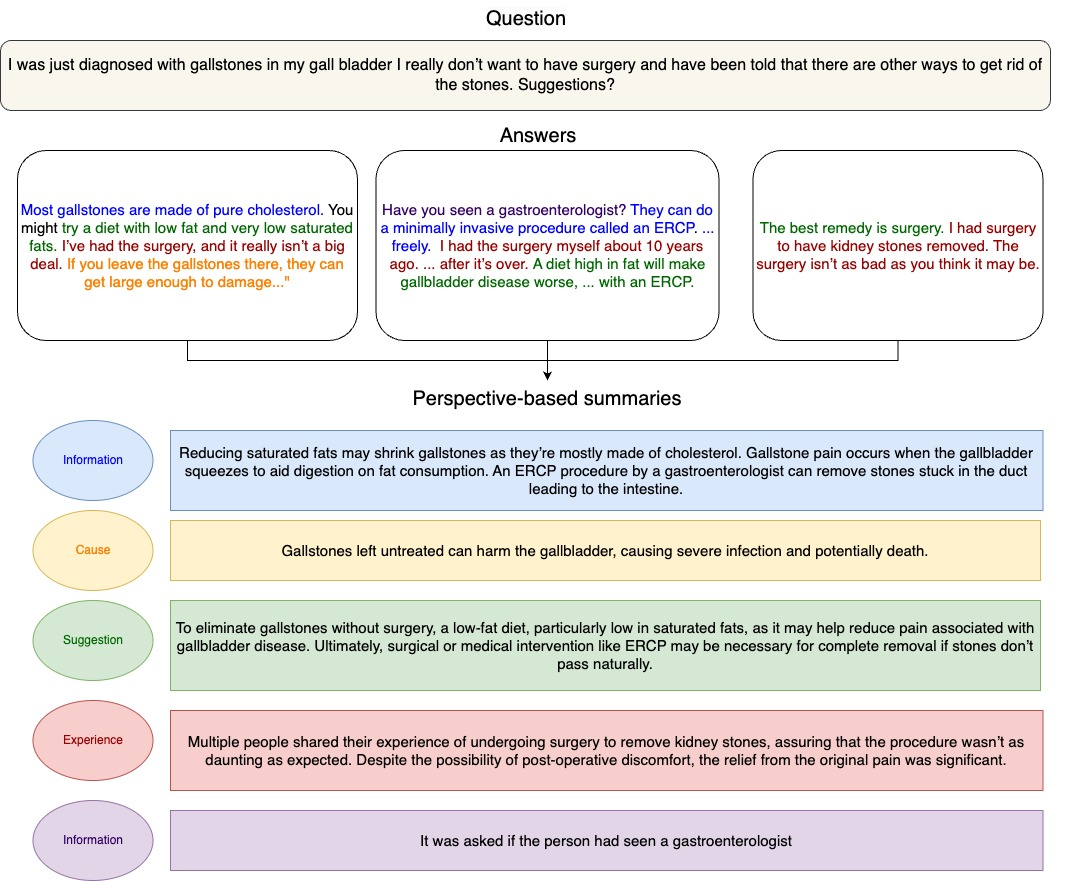
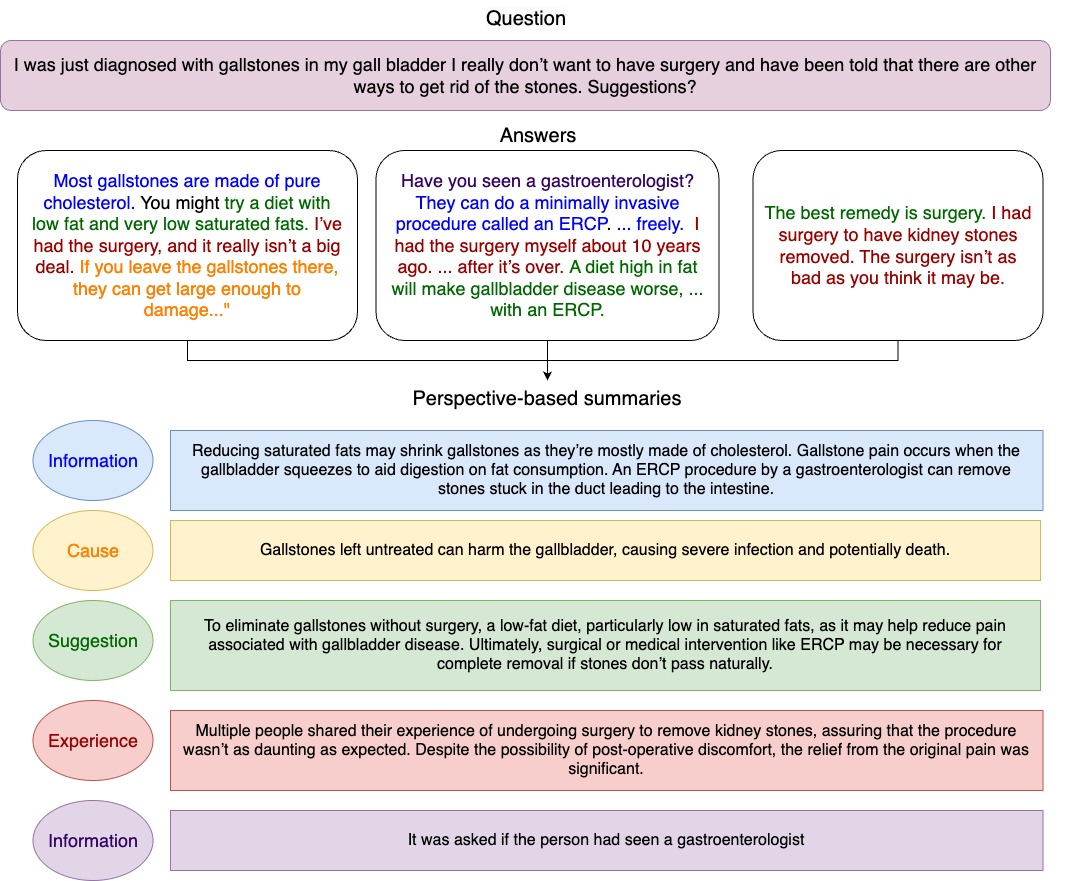
edit image

diff --git a/public/docs/index.html b/public/docs/index.html
@@ -10,9 +10,9 @@ text-gray-500 hover:bg-gray-100 hover:text-gray-900 dark:text-gray-300 dark:hove
 text-gray-500 hover:bg-gray-100 hover:text-gray-900 dark:text-gray-300 dark:hover:bg-primary-800 dark:hover:text-gray-50" href=https://www.codabench.org/competitions/4312/ target=_blank rel=noreferer>CodaBench ↗</a></li></ul><ul class="flex flex-col gap-1 max-lg:hidden"><li class="[word-break:break-word] mt-5 mb-2 px-2 py-1.5 text-sm font-semibold text-gray-900 first:mt-0 dark:text-gray-100 cursor-default"><span>Still need help?</span></li><li><a class="hb-sidebar-custom-link
 text-gray-500 hover:bg-gray-100 hover:text-gray-900 dark:text-gray-300 dark:hover:bg-primary-800 dark:hover:text-gray-50" href=/contact/>Contact</a></li><li><a class="hb-sidebar-custom-link
 text-gray-500 hover:bg-gray-100 hover:text-gray-900 dark:text-gray-300 dark:hover:bg-primary-800 dark:hover:text-gray-50" href=https://www.codabench.org/competitions/4312/ target=_blank rel=noreferer>CodaBench ↗</a></li></ul></div></aside><nav class="hb-toc order-last hidden w-64 shrink-0 xl:block print:hidden px-4" aria-label="table of contents"><div class="hb-scrollbar text-sm [hyphens:auto] sticky top-16 overflow-y-auto pr-4 pt-6 max-h-[calc(100vh-var(--navbar-height)-env(safe-area-inset-bottom))] -mr-4 rtl:-ml-4"><p class="mb-4 font-semibold tracking-tight">On this page</p><ul><li class="my-2 scroll-my-6 scroll-py-6"><a class="font-semibold inline-block text-gray-500 hover:text-gray-900 dark:text-gray-400 dark:hover:text-gray-300 w-full break-words" href=#introduction>Introduction</a></li><li class="my-2 scroll-my-6 scroll-py-6"><a class="font-semibold inline-block text-gray-500 hover:text-gray-900 dark:text-gray-400 dark:hover:text-gray-300 w-full break-words" href=#task-description>Task Description</a></li><li class="my-2 scroll-my-6 scroll-py-6"><a class="font-semibold inline-block text-gray-500 hover:text-gray-900 dark:text-gray-400 dark:hover:text-gray-300 w-full break-words" href=#dataset>Dataset</a></li><li class="my-2 scroll-my-6 scroll-py-6"><a class="font-semibold inline-block text-gray-500 hover:text-gray-900 dark:text-gray-400 dark:hover:text-gray-300 w-full break-words" href=#participation>Participation</a></li><li class="my-2 scroll-my-6 scroll-py-6"><a class="font-semibold inline-block text-gray-500 hover:text-gray-900 dark:text-gray-400 dark:hover:text-gray-300 w-full break-words" href=#evaluation-metrics>Evaluation Metrics</a></li><li class="my-2 scroll-my-6 scroll-py-6"><a class="font-semibold inline-block text-gray-500 hover:text-gray-900 dark:text-gray-400 dark:hover:text-gray-300 w-full break-words" href=#timeline>Timeline</a></li><li class="my-2 scroll-my-6 scroll-py-6"><a class="font-semibold inline-block text-gray-500 hover:text-gray-900 dark:text-gray-400 dark:hover:text-gray-300 w-full break-words" href=#organisers>Organisers</a></li><li class="my-2 scroll-my-6 scroll-py-6"><a class="font-semibold inline-block text-gray-500 hover:text-gray-900 dark:text-gray-400 dark:hover:text-gray-300 w-full break-words" href=#references>References</a></li></ul></div></nav><article class="flex w-full min-w-0 min-h-[calc(100vh-var(--navbar-height))] justify-center break-words pb-8 pr-[calc(env(safe-area-inset-right)-1.5rem)]"><main class="prose prose-slate lg:prose-xl dark:prose-invert w-full min-w-0 max-w-6xl px-6 pt-4 md:px-12"><div class=mb-1><div class="mt-1.5 flex items-center gap-1 overflow-hidden text-sm text-gray-500 dark:text-gray-400"><div class="whitespace-nowrap font-medium text-gray-700 dark:text-gray-100">Task</div></div></div><div class="content text-base"><h1>PerAnsSumm Shared Task - CL4Health@ NAACL 2025</h1><p>👋 Welcome to the official shared task website for PerAnsSumm: Perspective-aware Healthcare answer summarisation, a shared task organised at the CL4Health workshop colocated with NAACL 2025.</p><h2 id=introduction>Introduction</h2><p>In recent years, healthcare community question-answering (CQA) forums have gained popularity, allowing users to seek advice by posting healthcare-related questions and receiving answers from other users. These answers provide an array of user perspectives, ranging from sharing personal experiences to providing factual information or offering suggestions.
-Traditionally, the CQA answer summarization task focuses on a single best-voted answer [1, 2] as a reference summary. However, a single answer often fails to capture the diverse perspectives presented across multiple answers. Providing the answers in structured, perspective-specific summaries could better serve the information needs of end users</p><p>The PerAnsSumm shared task focuses on identifying and classifying perspective-specific spans (Task A) and generating perspective-specific summaries from the question-answer thread (Task B).</p><!-- This site is a demo of the Hugo Blox Documentation theme. For the full documentation on how to use this template, refer to the [Hugo Blox Documentation](https://docs.hugoblox.com/). --><h2 id=task-description>Task Description</h2><p>Given a question Q, a set of answers A, and perspective categories (‘cause’, ‘suggestion’, ‘experience’, ‘question’, and ‘information’), you are assigned the following two tasks:</p><ol><li><strong>Task A:</strong> Identify the spans in the user answers that reflect a particular perspective and classify the span to the correct perspective.</li><li><strong>Task B:</strong> Generate a concise summary that represents the underlying perspective contained within the spans across all answers.</li></ol><p><figure id=figure-task-a-span-identification-and-classification-color-highlighted-spans-in-answers-task-b-summary-generation-perspective-specific-summaries><div class="flex justify-center"><div class=w-100><img alt="Task Description" srcset="/docs/task_image_hu14236392271507222519.webp 400w,
-/docs/task_image_hu16234512235041190369.webp 760w,
-/docs/task_image_hu7952948483566298219.webp 1200w" src=/docs/task_image_hu14236392271507222519.webp width=760 height=621 loading=lazy data-zoomable></div></div><figcaption>Task A: Span Identification and Classification (color-highlighted spans in answers), Task B: Summary Generation (Perspective specific summaries)</figcaption></figure></p><h2 id=dataset>Dataset</h2><p>We use the PUMA dataset [3], a perspective-aware summary annotated corpus of medical question-answer pairs. The PUMA dataset consists of 3, 167 CQA threads with approximately 10K answers filtered from the Yahoo! L6 corpus. Each answer in PUMA is annotated with five perspective spans: ‘cause’, ‘suggestion’, ‘experience’, ‘question’, and ‘information’. Following the perspective and span annotations, summaries are written for each identified perspective. These summaries are concise representations of the underlying perspectives contained within the spans across all answers. Each CQA thread has up to five perspective-specific summaries.</p><h2 id=participation>Participation</h2><p>Please visit the CodaBench page to register for the competition and access the dataset.</p><h2 id=evaluation-metrics>Evaluation Metrics</h2><p>For <strong>Task A</strong> (Span Identification and Classification), we use (i) macro-averaged F1 score for classification and (ii) Strict-matching and Proportional-matching for Span Identification.</p><p>For <strong>Task B</strong> (Summary Generation), we use two sets of evaluation metrics that capture (i) relevance and (ii) factuality.</p><ul><li>Relevance - ROUGE (R1, R2, and RL) [4], BLEU [5], Meteor [6], and BERTScore [7]</li><li>Factuality - AlignScore [8] and SummaC [9]</li></ul><h2 id=timeline>Timeline</h2><p><strong>First call for participation:</strong> 12th November, 2024<br><strong>Release of task data (training, validation):</strong> 12th November, 2024<br><strong>Release of test data:</strong> 25th January, 2025<br><strong>System submission deadline:</strong> 1st February, 2025<br><strong>Release of final results:</strong> 5th February, 2025<br><strong>System papers due:</strong> 25th February, 2025<br><strong>Notification of acceptance:</strong> 7th March, 2025<br><strong>Camera-ready papers due:</strong> TBC<br><strong>CL4Health Workshop:</strong> TBC</p><p>* All deadlines are 23:59 UTC-12 (&ldquo;anywhere on Earth&rdquo;).</p><h2 id=organisers>Organisers</h2><ul><li><strong>Shweta Yadav</strong> - University of Illinois at Chicago, USA</li><li><strong>Md. Shad Akhtar</strong> - Indraprastha Institute of Information Technology Delhi, India</li><li><strong>Siddhant Agarwal</strong> - University of Illinois at Chicago, USA</li></ul><h2 id=references>References</h2><p>[1] Tanya Chowdhury and Tanmoy Chakraborty. Cqasumm: Building references for community question answering summarization corpora. In Proceedings of the ACM india joint international conference on data science and management of data, pages 18–26, 2019.</p><p>[2] Tanya Chowdhury, Sachin Kumar, and Tanmoy Chakraborty. Neural abstractive summarization with structural attention. arXiv preprint arXiv:2004.09739, 2020.</p><p>[3] Gauri Naik, Sharad Chandakacherla, Shweta Yadav,and Md Shad Akhtar. No perspective, no perception!! perspective-aware healthcare answer summarization. In Lun-Wei Ku, Andre Martins, and Vivek Srikumar, editors, Findings of the Asso- ciation for Computational Linguistics ACL 2024, pages 15919–15932, Bangkok, Thailand and virtual meeting, August 2024. Association for Computational Linguistics.</p><p>[4] Chin-Yew Lin. ROUGE: A package for automatic evaluation of summaries. In Text Summarization Branches Out, pages 74–81, Barcelona, Spain, July 2004. Association for Computational Linguistics.</p><p>[5] Kishore Papineni, Salim Roukos, Todd Ward, and Wei-Jing Zhu. Bleu: a method for automatic evaluation of machine translation. In Pierre Isabelle, Eugene Charniak, and Dekang Lin, editors, Proceedings of the 40th Annual Meeting of the Association for Computational Linguistics, pages 311–318, Philadelphia, Pennsylvania, USA, July 2002. Association for Computational Linguistics.</p><p>[6] Satanjeev Banerjee and Alon Lavie. METEOR: An automatic metric for MT evaluation with improved correlation with human judgments. In Jade Goldstein, Alon Lavie, Chin-Yew Lin, and Clare Voss, editors, Proceedings of the ACL Workshop on Intrinsic and Extrinsic Evaluation Measures for Machine Translation and/or Summarization, pages 65–72, Ann Arbor, Michigan, June 2005. Association for Computational Linguistics.</p><p>[7] Tianyi Zhang, Varsha Kishore, Felix Wu, Kilian Q. Weinberger, and Yoav Artzi. Bertscore: Evaluating text generation with bert. In International Conference on Learning Representations, 2020.</p><p>[8] Yuheng Zha, Yichi Yang, Ruichen Li, and Zhiting Hu. Alignscore: Evaluating factual consistency with a unified alignment function. In Proceedings of the 61st Annual Meeting of the Association for Computational Linguistics (Volume 1: Long Papers), pages 11328–11348, 2023.</p><p>[9] Philippe Laban, Tobias Schnabel, Paul Bennett, and Marti A Hearst. Summac: Re-visiting nli-based models for inconsistency detection in summarization. Transactions of the Association for Computational Linguistics, 10:163–177, 2022.</p></div><div class=mt-16></div></main></article></div></div><div class=page-footer><footer class="container mx-auto flex flex-col justify-items-center text-sm leading-6 mt-24 mb-4 text-slate-700 dark:text-slate-200"><p class="powered-by text-center">© 2024 University of Illinois at Chicago. This work is licensed under <a href=https://creativecommons.org/licenses/by-nc-nd/4.0 rel="noopener noreferrer" target=_blank>CC BY NC ND 4.0</a></p><p class="powered-by footer-license-icons"><a href=https://creativecommons.org/licenses/by-nc-nd/4.0 rel="noopener noreferrer" target=_blank aria-label="Creative Commons"><i class="fab fa-creative-commons fa-2x" aria-hidden=true></i>
+Traditionally, the CQA answer summarization task focuses on a single best-voted answer [1, 2] as a reference summary. However, a single answer often fails to capture the diverse perspectives presented across multiple answers. Providing the answers in structured, perspective-specific summaries could better serve the information needs of end users</p><p>The PerAnsSumm shared task focuses on identifying and classifying perspective-specific spans (Task A) and generating perspective-specific summaries from the question-answer thread (Task B).</p><!-- This site is a demo of the Hugo Blox Documentation theme. For the full documentation on how to use this template, refer to the [Hugo Blox Documentation](https://docs.hugoblox.com/). --><h2 id=task-description>Task Description</h2><p>Given a question Q, a set of answers A, and perspective categories (‘cause’, ‘suggestion’, ‘experience’, ‘question’, and ‘information’), you are assigned the following two tasks:</p><ol><li><strong>Task A:</strong> Identify the spans in the user answers that reflect a particular perspective and classify the span to the correct perspective.</li><li><strong>Task B:</strong> Generate a concise summary that represents the underlying perspective contained within the spans across all answers.</li></ol><p><figure id=figure-task-a-span-identification-and-classification-color-highlighted-spans-in-answers-task-b-summary-generation-perspective-specific-summaries><div class="flex justify-center"><div class=w-100><img alt="Task Description" srcset="/docs/task_image_hu12527338044085270980.webp 400w,
+/docs/task_image_hu9975774018856304905.webp 760w,
+/docs/task_image_hu10324972309934094083.webp 1200w" src=/docs/task_image_hu12527338044085270980.webp width=760 height=621 loading=lazy data-zoomable></div></div><figcaption>Task A: Span Identification and Classification (color-highlighted spans in answers), Task B: Summary Generation (Perspective specific summaries)</figcaption></figure></p><h2 id=dataset>Dataset</h2><p>We use the PUMA dataset [3], a perspective-aware summary annotated corpus of medical question-answer pairs. The PUMA dataset consists of 3, 167 CQA threads with approximately 10K answers filtered from the Yahoo! L6 corpus. Each answer in PUMA is annotated with five perspective spans: ‘cause’, ‘suggestion’, ‘experience’, ‘question’, and ‘information’. Following the perspective and span annotations, summaries are written for each identified perspective. These summaries are concise representations of the underlying perspectives contained within the spans across all answers. Each CQA thread has up to five perspective-specific summaries.</p><h2 id=participation>Participation</h2><p>Please visit the CodaBench page to register for the competition and access the dataset.</p><h2 id=evaluation-metrics>Evaluation Metrics</h2><p>For <strong>Task A</strong> (Span Identification and Classification), we use (i) macro-averaged F1 score for classification and (ii) Strict-matching and Proportional-matching for Span Identification.</p><p>For <strong>Task B</strong> (Summary Generation), we use two sets of evaluation metrics that capture (i) relevance and (ii) factuality.</p><ul><li>Relevance - ROUGE (R1, R2, and RL) [4], BLEU [5], Meteor [6], and BERTScore [7]</li><li>Factuality - AlignScore [8] and SummaC [9]</li></ul><h2 id=timeline>Timeline</h2><p><strong>First call for participation:</strong> 12th November, 2024<br><strong>Release of task data (training, validation):</strong> 12th November, 2024<br><strong>Release of test data:</strong> 25th January, 2025<br><strong>System submission deadline:</strong> 1st February, 2025<br><strong>Release of final results:</strong> 5th February, 2025<br><strong>System papers due:</strong> 25th February, 2025<br><strong>Notification of acceptance:</strong> 7th March, 2025<br><strong>Camera-ready papers due:</strong> TBC<br><strong>CL4Health Workshop:</strong> TBC</p><p>* All deadlines are 23:59 UTC-12 (&ldquo;anywhere on Earth&rdquo;).</p><h2 id=organisers>Organisers</h2><ul><li><strong>Shweta Yadav</strong> - University of Illinois at Chicago, USA</li><li><strong>Md. Shad Akhtar</strong> - Indraprastha Institute of Information Technology Delhi, India</li><li><strong>Siddhant Agarwal</strong> - University of Illinois at Chicago, USA</li></ul><h2 id=references>References</h2><p>[1] Tanya Chowdhury and Tanmoy Chakraborty. Cqasumm: Building references for community question answering summarization corpora. In Proceedings of the ACM india joint international conference on data science and management of data, pages 18–26, 2019.</p><p>[2] Tanya Chowdhury, Sachin Kumar, and Tanmoy Chakraborty. Neural abstractive summarization with structural attention. arXiv preprint arXiv:2004.09739, 2020.</p><p>[3] Gauri Naik, Sharad Chandakacherla, Shweta Yadav,and Md Shad Akhtar. No perspective, no perception!! perspective-aware healthcare answer summarization. In Lun-Wei Ku, Andre Martins, and Vivek Srikumar, editors, Findings of the Asso- ciation for Computational Linguistics ACL 2024, pages 15919–15932, Bangkok, Thailand and virtual meeting, August 2024. Association for Computational Linguistics.</p><p>[4] Chin-Yew Lin. ROUGE: A package for automatic evaluation of summaries. In Text Summarization Branches Out, pages 74–81, Barcelona, Spain, July 2004. Association for Computational Linguistics.</p><p>[5] Kishore Papineni, Salim Roukos, Todd Ward, and Wei-Jing Zhu. Bleu: a method for automatic evaluation of machine translation. In Pierre Isabelle, Eugene Charniak, and Dekang Lin, editors, Proceedings of the 40th Annual Meeting of the Association for Computational Linguistics, pages 311–318, Philadelphia, Pennsylvania, USA, July 2002. Association for Computational Linguistics.</p><p>[6] Satanjeev Banerjee and Alon Lavie. METEOR: An automatic metric for MT evaluation with improved correlation with human judgments. In Jade Goldstein, Alon Lavie, Chin-Yew Lin, and Clare Voss, editors, Proceedings of the ACL Workshop on Intrinsic and Extrinsic Evaluation Measures for Machine Translation and/or Summarization, pages 65–72, Ann Arbor, Michigan, June 2005. Association for Computational Linguistics.</p><p>[7] Tianyi Zhang, Varsha Kishore, Felix Wu, Kilian Q. Weinberger, and Yoav Artzi. Bertscore: Evaluating text generation with bert. In International Conference on Learning Representations, 2020.</p><p>[8] Yuheng Zha, Yichi Yang, Ruichen Li, and Zhiting Hu. Alignscore: Evaluating factual consistency with a unified alignment function. In Proceedings of the 61st Annual Meeting of the Association for Computational Linguistics (Volume 1: Long Papers), pages 11328–11348, 2023.</p><p>[9] Philippe Laban, Tobias Schnabel, Paul Bennett, and Marti A Hearst. Summac: Re-visiting nli-based models for inconsistency detection in summarization. Transactions of the Association for Computational Linguistics, 10:163–177, 2022.</p></div><div class=mt-16></div></main></article></div></div><div class=page-footer><footer class="container mx-auto flex flex-col justify-items-center text-sm leading-6 mt-24 mb-4 text-slate-700 dark:text-slate-200"><p class="powered-by text-center">© 2024 University of Illinois at Chicago. This work is licensed under <a href=https://creativecommons.org/licenses/by-nc-nd/4.0 rel="noopener noreferrer" target=_blank>CC BY NC ND 4.0</a></p><p class="powered-by footer-license-icons"><a href=https://creativecommons.org/licenses/by-nc-nd/4.0 rel="noopener noreferrer" target=_blank aria-label="Creative Commons"><i class="fab fa-creative-commons fa-2x" aria-hidden=true></i>
 <i class="fab fa-creative-commons-by fa-2x" aria-hidden=true></i>
 <i class="fab fa-creative-commons-nc fa-2x" aria-hidden=true></i>
 <i class="fab fa-creative-commons-nd fa-2x" aria-hidden=true></i></a></p><p class="powered-by text-center">Published with <a href="https://hugoblox.com/?utm_campaign=poweredby" target=_blank rel=noopener>Hugo Blox Builder</a> — the free, <a href=https://github.com/HugoBlox/hugo-blox-builder target=_blank rel=noopener>open source</a> website builder that empowers creators.</p></footer></div></body></html>

diff --git a/content/docs/_index.md b/content/docs/_index.md
@@ -21,7 +21,7 @@ Given a question Q, a set of answers A, and perspective categories (‘cause’,
 1. **Task A:** Identify the spans in the user answers that reflect a particular perspective and classify the span to the correct perspective.
 2. **Task B:** Generate a concise summary that represents the underlying perspective contained within the spans across all answers.
 
-![Task Description](task_image.png "Task A: Span Identification and Classification (color-highlighted spans in answers), Task B: Summary Generation (Perspective specific summaries)")
+![Task Description](task_image.jpg "Task A: Span Identification and Classification (color-highlighted spans in answers), Task B: Summary Generation (Perspective specific summaries)")
 
 ## Dataset
 We use the PUMA dataset [3], a perspective-aware summary annotated corpus of medical question-answer pairs. The PUMA dataset consists of 3, 167 CQA threads with approximately 10K answers filtered from the Yahoo! L6 corpus. Each answer in PUMA is annotated with five perspective spans: ‘cause’, ‘suggestion’, ‘experience’, ‘question’, and ‘information’. Following the perspective and span annotations, summaries are written for each identified perspective. These summaries are concise representations of the underlying perspectives contained within the spans across all answers. Each CQA thread has up to five perspective-specific summaries.
